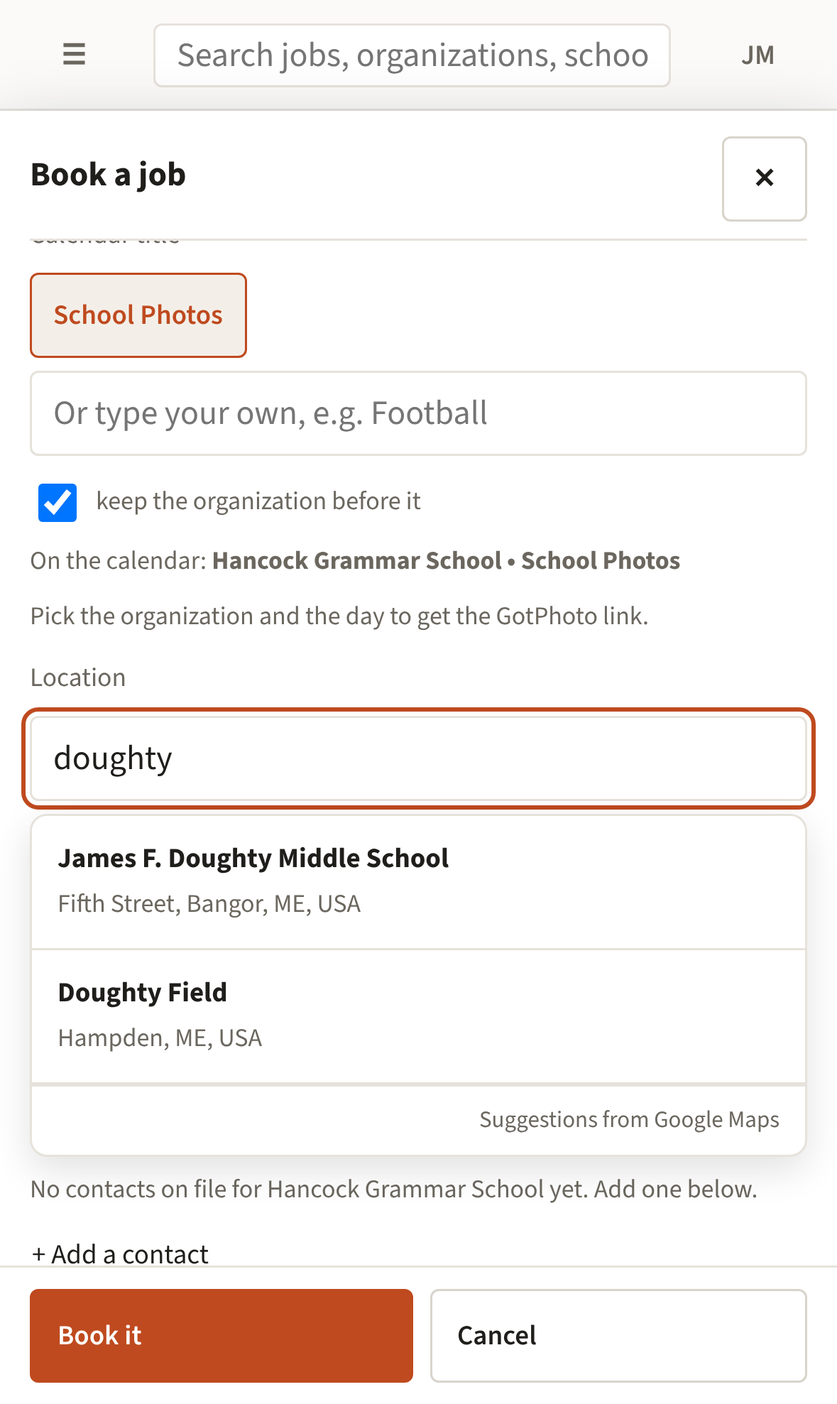
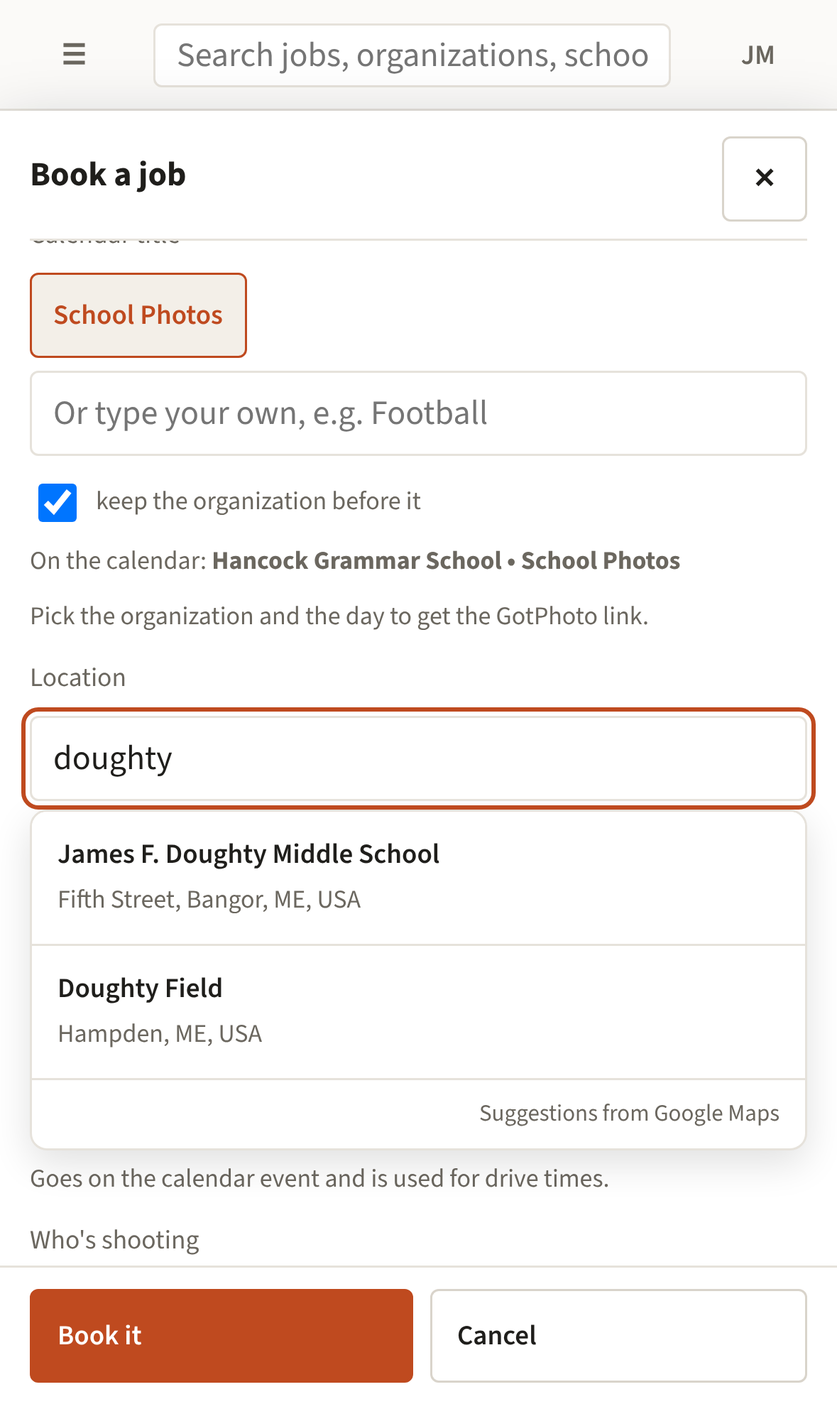
Google Maps search on every address box
The place search from the booking form is now a shared helper (app/src/places.js) and is also on
the studio address (Schedule) and the organization Town (add and edit, towns only). place-search
accepts anyone who can edit bookings, scheduling or organizations, and kind "town" limits
suggestions to cities and towns.

Claude-Session: https://claude.ai/code/session_016DqQ9PoSFNtnBFsZMLAPME

Changed region(s): [[0.0611, 0.5862, 0.5496, 0.7714], [0.0305, 0.7714, 0.9466, 0.8948]]

diff --git a/app/src/bookings.js b/app/src/bookings.js
@@ -40,12 +40,6 @@
   .aca .bk-orgs { border: 1px solid var(--border); border-radius: 8px; max-height: 200px; overflow: auto; margin-top: 6px; }
   .aca .bk-orgs button { display: block; width: 100%; text-align: left; border: none; border-bottom: 1px solid var(--border); border-radius: 0; background: var(--surface); padding: 8px 10px; white-space: normal; }
   .aca .bk-orgs button:last-child { border-bottom: none; }
-  .aca .bk-loc { position: relative; min-width: 0; }
-  .aca .bk-places { position: absolute; z-index: 6; left: 0; right: 0; max-height: 300px; box-shadow: 0 6px 18px rgba(0,0,0,.12); background: var(--surface); }
-  .aca .bk-places button { display: flex; flex-direction: column; align-items: flex-start; justify-content: center; text-align: left; gap: 2px; height: auto; padding: 10px 12px; min-height: 48px; font-weight: 400; white-space: normal; }
-  .aca .bk-places button.on, .aca .bk-places button:hover { background: var(--surface-2); }
-  .aca .bk-places .empty { padding: 10px 12px; font-size: 13px; color: var(--muted); }
-  .aca .bk-places-by { padding: 6px 12px; font-size: 11px; color: var(--muted); text-align: right; border-top: 1px solid var(--border); }
   .aca .bk-orgpick { display: flex; align-items: center; gap: 8px; flex-wrap: wrap; }
   .aca .bk-contacts label { display: flex; gap: 8px; align-items: flex-start; padding: 5px 0; font-size: 13px; }
   .aca .bk-contacts label.off { color: var(--muted); }
@@ -409,75 +403,6 @@
     return box;
   }
 
-  // ---- Location: Google Maps suggestions (edge fn place-search, key stays server-side). The pick is saved as
-  // "Name, full address" in bookings.location, which the calendar event and drive-time both use. Typing by hand
-  // still works; if Google is unreachable or refuses, the box quietly becomes a plain text box again.
-  const PLACES_FN_URL = SUPABASE_URL + "/functions/v1/place-search";
-  const mapLink = (loc) => '<a href="https://www.google.com/maps/search/?api=1&query=' + encodeURIComponent(loc) + '" target="_blank" rel="noopener">Open in Google Maps</a>';
-  async function placesCall(body) {
-    const { data: { session } } = await sb.auth.getSession();
-    if (!session) throw new Error("Signed out.");
-    const r = await fetch(PLACES_FN_URL, { method: "POST", headers: { Authorization: "Bearer " + session.access_token, "Content-Type": "application/json" }, body: JSON.stringify(body) });
-    const j = await r.json().catch(() => ({}));
-    if (!j.ok) throw new Error(j.error || "HTTP " + r.status);
-    return j;
-  }
-  const newSession = () => (window.crypto && crypto.randomUUID ? crypto.randomUUID() : "");
-  function wirePlaces(input, list, note) {
-    let timer = null, seq = 0, places = [], active = -1, off = false, session = newSession();
-    const hint = "Goes on the calendar event and is used for drive times.";
-    const close = () => { list.classList.add("hidden"); input.setAttribute("aria-expanded", "false"); active = -1; };
-    const paint = () => list.querySelectorAll("button").forEach((b, i) => b.classList.toggle("on", i === active));
-    function show(q) {
-      list.innerHTML = places.map((p, i) => '<button type="button" role="option" data-i="' + i + '"><strong>' + esc(p.name) + "</strong>" + (p.detail ? '<span class="bk-sub">' + esc(p.detail) + "</span>" : "") + "</button>").join("") +
-        (places.length ? "" : '<div class="empty">No Google Maps match for \u201c' + esc(q) + '\u201d. Keep typing, or leave it as typed.</div>') +
-        '<div class="bk-places-by">Suggestions from Google Maps</div>';
-      list.classList.remove("hidden"); input.setAttribute("aria-expanded", "true"); active = -1;
-    }
-    async function pick(i) {
-      const p = places[i]; if (!p) return;
-      close(); input.value = p.name + (p.detail ? ", " + p.detail : ""); input.blur();
-      note.textContent = "Getting the address\u2026";
-      try {
-        const g = await placesCall({ place_id: p.id, session });
-        const addr = (g.address || "").replace(/, USA$/, "");
-        const name = g.name || p.name;
-        input.value = addr ? (addr.toLowerCase().startsWith(name.toLowerCase()) ? addr : name + ", " + addr) : input.value;
-      } catch (e) { /* keep the suggestion text; it is still a good address */ }
-      session = newSession();
-      note.innerHTML = mapLink(input.value);
-    }
-    // The town filled in from the organization is a placeholder: the first tap selects it so typing replaces it.
-    input.addEventListener("focus", () => { if (input.dataset.auto) { delete input.dataset.auto; const v = input.value; input.select(); setTimeout(() => { if (input.value === v) input.select(); }, 0); } });
-    input.addEventListener("input", () => {
-      clearTimeout(timer); delete input.dataset.auto;
-      const q = input.value.trim();
-      note.textContent = hint;
-      if (off || q.length < 3) { close(); return; }
-      timer = setTimeout(async () => {
-        const mine = ++seq;
-        try {
-          const j = await placesCall({ q, session });
-          if (mine !== seq || input.value.trim() !== q) return;
-          places = j.places || []; show(q);
-        } catch (e) {
-          if (mine !== seq) return;
-          off = true; close(); note.textContent = cleanErr(e);
-        }
-      }, 250);
-    });
-    input.addEventListener("keydown", (e) => {
-      if (list.classList.contains("hidden") || !places.length) return;
-      if (e.key === "ArrowDown" || e.key === "ArrowUp") { e.preventDefault(); active = (active + (e.key === "ArrowDown" ? 1 : places.length - 1)) % places.length; paint(); }
-      else if (e.key === "Enter" && active >= 0) { e.preventDefault(); pick(active); }
-      else if (e.key === "Escape") { e.stopPropagation(); close(); }
-    });
-    // Keep the input focused while a suggestion is tapped (iPhone fires blur before click), then close on blur.
-    list.addEventListener("mousedown", (e) => e.preventDefault());
-    list.addEventListener("click", (e) => { const b = e.target.closest("button[data-i]"); if (b) pick(Number(b.dataset.i)); });
-    input.addEventListener("blur", () => setTimeout(close, 150));
-  }
-
   // ---- Book a job / Edit booking
   async function openForm(existing) {
     try { await ensureMeta(); } catch (e) { toast(cleanErr(e), true); return; }
@@ -508,9 +433,8 @@
           <div class="bk-sub" id="aca-bkTitlePrev" style="margin-top:6px"></div>
           <div id="aca-bkGp"></div></div>
         <label for="aca-bkLoc">Location</label>
-        <div class="bk-loc"><input type="text" id="aca-bkLoc" value="${esc(d.location || "")}" placeholder="Search Google Maps or type where we set up" autocomplete="off" autocapitalize="words" spellcheck="false" enterkeyhint="search" role="combobox" aria-autocomplete="list" aria-expanded="false" aria-controls="aca-bkLocList" style="width:100%" />
-          <div class="bk-orgs bk-places hidden" id="aca-bkLocList" role="listbox"></div>
-          <div class="bk-sub" id="aca-bkLocNote" style="margin-top:4px">${d.location ? mapLink(d.location) : "Goes on the calendar event and is used for drive times."}</div></div>
+        <div class="bk-loc"><input type="text" id="aca-bkLoc" value="${esc(d.location || "")}" placeholder="Search Google Maps or type where we set up" style="width:100%" />
+          <div class="bk-sub" id="aca-bkLocNote" style="margin-top:4px"></div></div>
         ${isNew && canEdit("scheduling") ? `<label>Who's shooting</label>
         <div><details class="bk-crew-dd" id="aca-bkCrewDd"><summary id="aca-bkCrewSum">Nobody yet</summary><div class="bk-contacts" id="aca-bkCrew"><span class="bk-sub">Loading the team&#8230;</span></div></details>
           <div class="bk-sub">Optional. They go on the Schedule for each day with a time (with drive time when it can be looked up).</div></div>` : ""}
@@ -642,7 +566,7 @@
       if (!chosen.size) contacts.filter((c) => c.emailable).forEach((c) => chosen.add(c.id));
       renderContacts(); renderPreview();
     }
-    wirePlaces(el("bkLoc"), el("bkLocList"), el("bkLocNote"));
+    Places.attach(el("bkLoc"), { note: el("bkLocNote"), hint: "Goes on the calendar event and is used for drive times." });
     let searchTimer = null;
     box.addEventListener("input", (e) => {
       if (e.target.id === "aca-bkOrgQ") {

diff --git a/app/src/places.js b/app/src/places.js
@@ -1,0 +1,110 @@
+
+  // ---- Google Maps place search (2026-10-22)
+  // Places.attach(input, opts) turns a text box into a Google Maps search: typing 3+ letters shows suggestions
+  // under it, and a pick fills the box. The edge function place-search holds the key. Typing by hand still works;
+  // if Google is unreachable or refuses, the box says so once (in opts.note) and stays a plain text box.
+  //   opts.kind  "address" (default): fills "Name, full street address" (Place Details).
+  //              "town": cities and towns only; fills just the town name.
+  //   opts.note  optional element under the box: shows opts.hint, an "Open in Google Maps" link after a pick,
+  //              and Google's refusal if there is one.
+  // A pick fires "change" on the input (on the blur, and again once the full address arrives), so code that
+  // saves on change keeps working.
+  const Places = (() => {
+    const css = `
+  .aca .pl-wrap { position: relative; display: block; min-width: 0; }
+  .aca .pl-list { position: absolute; z-index: 60; left: 0; right: 0; top: 100%; margin-top: 4px; max-height: 300px; overflow: auto; border: 1px solid var(--border); border-radius: 8px; background: var(--surface); box-shadow: 0 6px 18px rgba(0,0,0,.12); }
+  .aca .pl-list button { display: flex; flex-direction: column; align-items: flex-start; justify-content: center; text-align: left; gap: 2px; width: 100%; height: auto; min-height: 48px; padding: 10px 12px; border: none; border-bottom: 1px solid var(--border); border-radius: 0; background: var(--surface); font-weight: 400; white-space: normal; }
+  .aca .pl-list button strong { font-weight: 600; }
+  .aca .pl-list button span { font-size: 12px; color: var(--muted); }
+  .aca .pl-list button.on, .aca .pl-list button:hover { background: var(--surface-2); }
+  .aca .pl-list .empty { padding: 10px 12px; font-size: 13px; color: var(--muted); }
+  .aca .og-modal .pl-list { position: static; }   /* that dialog scrolls and would clip a floating list */
+  .aca .pl-by { padding: 6px 12px; font-size: 11px; color: var(--muted); text-align: right; }
+  `;
+    const styleTag = document.createElement("style"); styleTag.textContent = css; document.head.appendChild(styleTag);
+    const FN_URL = SUPABASE_URL + "/functions/v1/place-search";
+    let refused = "";   // Google said no (e.g. the API is off): stop asking for the rest of the visit
+    const mapLink = (loc) => '<a href="https://www.google.com/maps/search/?api=1&query=' + encodeURIComponent(loc) + '" target="_blank" rel="noopener">Open in Google Maps</a>';
+    const newSession = () => (window.crypto && crypto.randomUUID ? crypto.randomUUID() : "");
+    async function call(body) {
+      const { data: { session } } = await supabase.auth.getSession();
+      if (!session) throw new Error("Signed out.");
+      const r = await fetch(FN_URL, { method: "POST", headers: { Authorization: "Bearer " + session.access_token, "Content-Type": "application/json" }, body: JSON.stringify(body) });
+      const j = await r.json().catch(() => ({}));
+      if (!j.ok) throw Object.assign(new Error(j.error || "HTTP " + r.status), { status: r.status });
+      return j;
+    }
+
+    function attach(input, opts) {
+      opts = opts || {};
+      const kind = opts.kind === "town" ? "town" : "address", note = opts.note || null, hint = opts.hint || "";
+      const wrap = document.createElement("span"); wrap.className = "pl-wrap";
+      input.parentNode.insertBefore(wrap, input); wrap.appendChild(input);
+      const list = document.createElement("div"); list.className = "pl-list hidden"; list.setAttribute("role", "listbox");
+      list.id = (input.id || "pl" + Math.random().toString(36).slice(2)) + "-places"; wrap.appendChild(list);
+      Object.entries({ autocomplete: "off", spellcheck: "false", autocapitalize: "words", enterkeyhint: "search", role: "combobox", "aria-autocomplete": "list", "aria-expanded": "false", "aria-controls": list.id })
+        .forEach(([k, v]) => input.setAttribute(k, v));
+      let timer = null, seq = 0, places = [], active = -1, session = newSession();
+      const say = (h) => { if (note) note.innerHTML = h; };
+      if (note && !note.innerHTML.trim()) say(kind === "address" && input.value.trim() ? mapLink(input.value.trim()) : esc(hint));
+      const close = () => { list.classList.add("hidden"); input.setAttribute("aria-expanded", "false"); active = -1; };
+      const paint = () => list.querySelectorAll("button").forEach((b, i) => b.classList.toggle("on", i === active));
+      function show(q) {
+        list.innerHTML = places.map((p, i) => '<button type="button" role="option" data-i="' + i + '"><strong>' + esc(p.name) + "</strong>" + (p.detail ? "<span>" + esc(p.detail) + "</span>" : "") + "</button>").join("") +
+          (places.length ? "" : '<div class="empty">No Google Maps match for “' + esc(q) + '”. Keep typing, or leave it as typed.</div>') +
+          '<div class="pl-by">Suggestions from Google Maps</div>';
+        list.classList.remove("hidden"); input.setAttribute("aria-expanded", "true"); active = -1;
+      }
+      async function pick(i) {
+        const p = places[i]; if (!p) return;
+        close();
+        // Set the value before leaving the box, so the browser's own "change" on blur carries the pick.
+        input.value = kind === "town" ? p.name : p.name + (p.detail ? ", " + p.detail.replace(/, USA$/, "") : "");
+        const first = input.value;
+        input.blur();
+        if (kind === "address") {
+          say("Getting the address…");
+          try {
+            const g = await call({ place_id: p.id, session });
+            const addr = (g.address || "").replace(/, USA$/, ""), name = g.name || p.name;
+            if (addr) input.value = addr.toLowerCase().startsWith(name.toLowerCase()) ? addr : name + ", " + addr;
+          } catch (e) { /* keep the suggestion text; it is still a good address */ }
+          if (input.value !== first) input.dispatchEvent(new Event("change", { bubbles: true }));
+        }
+        session = newSession();
+        say(kind === "address" ? mapLink(input.value) : esc(hint));
+      }
+      // The town filled in for you elsewhere (data-auto) is a placeholder: the first tap selects it so typing replaces it.
+      input.addEventListener("focus", () => { if (input.dataset.auto) { delete input.dataset.auto; const v = input.value; input.select(); setTimeout(() => { if (input.value === v) input.select(); }, 0); } });
+      input.addEventListener("input", () => {
+        clearTimeout(timer); delete input.dataset.auto;
+        const q = input.value.trim();
+        if (refused) { close(); return; }
+        say(esc(hint));
+        if (q.length < 3) { close(); return; }
+        timer = setTimeout(async () => {
+          const mine = ++seq;
+          try {
+            const j = await call({ q, session, kind });
+            if (mine !== seq || input.value.trim() !== q) return;
+            places = j.places || []; show(q);
+          } catch (e) {
+            if (mine !== seq) return;
+            close(); refused = e.message; say(esc(refused));
+          }
+        }, 250);
+      });
+      input.addEventListener("keydown", (e) => {
+        if (list.classList.contains("hidden") || !places.length) return;
+        if (e.key === "ArrowDown" || e.key === "ArrowUp") { e.preventDefault(); active = (active + (e.key === "ArrowDown" ? 1 : places.length - 1)) % places.length; paint(); }
+        else if (e.key === "Enter" && active >= 0) { e.preventDefault(); pick(active); }
+        else if (e.key === "Escape") { e.stopPropagation(); close(); }
+      });
+      // Keep the input focused while a suggestion is tapped (iPhone fires blur before click), then close on blur.
+      list.addEventListener("mousedown", (e) => e.preventDefault());
+      list.addEventListener("click", (e) => { const b = e.target.closest("button[data-i]"); if (b) pick(Number(b.dataset.i)); });
+      input.addEventListener("blur", () => setTimeout(close, 150));
+      return { close };
+    }
+    return { attach, mapLink };
+  })();

diff --git a/app/test/smoke.js b/app/test/smoke.js
@@ -193,13 +193,13 @@ const shown = (page, sel) => page.$eval(sel, (n) => !n.classList.contains("hidde
     await page.click("#aca-bkLoc");
     check(!(await page.$eval("#aca-bkCrewDd", (n) => n.open)), "the dropdown closes when you click elsewhere");
     await page.fill("#aca-bkLoc", "doughty");
-    await page.waitForSelector("#aca-bkLocList:not(.hidden) button[data-i]");
-    check((await page.$$("#aca-bkLocList button[data-i]")).length === 2, "typing a location shows Google Maps suggestions");
-    await page.click("#aca-bkLocList button[data-i] >> nth=0");
+    await page.waitForSelector("#aca-bkLoc-places:not(.hidden) button[data-i]");
+    check((await page.$$("#aca-bkLoc-places button[data-i]")).length === 2, "typing a location shows Google Maps suggestions");
+    await page.click("#aca-bkLoc-places button[data-i] >> nth=0");
     await page.waitForFunction(() => document.querySelector("#aca-bkLoc").value === "James F. Doughty Middle School, 143 Fifth St, Bangor, ME 04401");
     const calls = await page.evaluate(() => window.__placeCalls);
     check(calls.length === 2 && calls[0].session && calls[0].session === calls[1].session && calls[1].place_id === "ChIJdoughty0000001", "picking one fetches its address in the same session");
-    check(await page.$eval("#aca-bkLocList", (n) => n.classList.contains("hidden")) && /google\.com\/maps/.test(await page.$eval("#aca-bkLocNote a", (a) => a.href)), "the list closes and a map link shows");
+    check(await page.$eval("#aca-bkLoc-places", (n) => n.classList.contains("hidden")) && /google\.com\/maps/.test(await page.$eval("#aca-bkLocNote a", (a) => a.href)), "the list closes and a map link shows");
     await page.click('.bk-form button[data-v="save"]');
     await page.waitForFunction(() => window.__rpcCalls.some((c) => c[0] === "booking_create"));
     await page.waitForSelector("#aca-bkPanel .bk-stages");
@@ -378,6 +378,13 @@ const shown = (page, sel) => page.$eval(sel, (n) => !n.classList.contains("hidde
     const { page, errors } = await open(browser, port, "", "#staff/schedule");
     await page.waitForSelector("#aca-scGrid .sc-b");
     check(await page.$eval("#aca-panel-schedule", (n) => n.classList.contains("active")), "schedule opens from its link");
+    await page.click('[data-v="studio"]');
+    await page.fill("#aca-scAddr", "60 main");
+    await page.waitForSelector("#aca-scAddr-places:not(.hidden) button[data-i]");
+    await page.click("#aca-scAddr-places button[data-i]");
+    await page.waitForFunction(() => document.querySelector("#aca-scAddr").value === "60 Main Rd N, Hampden, ME 04444");
+    check(true, "the studio address searches Google Maps and fills the full address");
+    await page.click('.sc-modal [data-m="cancel"]');
     check((await page.$$("#aca-scGrid .sc-head")).length === 8, "week view: 7 days Sunday to Saturday");
     check((await page.textContent("#aca-scGrid .sc-head:nth-child(2)")).startsWith("Sun"), "the week starts on Sunday");
     check((await page.$$("#aca-scGrid .sc-b.sc-k-drive")).length === 4 && (await page.$$("#aca-scGrid .sc-b.sc-k-job")).length >= 2, "job bars with drive time on both sides");

diff --git a/supabase/functions/place-search/index.ts b/supabase/functions/place-search/index.ts
@@ -1,11 +1,13 @@
-// place-search: Google Maps place suggestions for the Location box on Book a job / Edit booking in 207 Admin.
+// place-search: Google Maps place suggestions for the address boxes in 207 Admin (app/src/places.js): the booking
+// Location, the studio address on Schedule, and the organization Town.
 //
 // Deployed with verify_jwt=false; this function does its own checks. POST with the caller's token:
-//   {q, session}         -> {ok, places: [{id, name, detail}]}   (Places API (New) Autocomplete, biased to Maine)
+//   {q, session, kind}   -> {ok, places: [{id, name, detail}]}   (Places API (New) Autocomplete, biased to Maine;
+//                                                                  kind "town" = cities and towns only)
 //   {place_id, session}  -> {ok, name, address, location}        (Place Details: name + formatted address)
 // `session` is a UUID the page makes per search so Google bills the typing and the pick as one session.
-// The caller must have can('bookings','edit'). The picked text goes in bookings.location, which drive-time
-// already sends to the Routes API, so drive times use the exact address.
+// The caller must be able to edit bookings, scheduling or organizations (can_any). A picked booking location goes
+// in bookings.location, which drive-time sends to the Routes API, so drive times use the exact address.
 //
 // Needs the secret GOOGLE_MAPS_API_KEY with "Places API (New)" enabled (as well as the Routes API). Without
 // it the page says so and the location is typed by hand like before.
@@ -31,10 +33,10 @@ const UUID = /^[0-9a-f]{8}-[0-9a-f]{4}-[0-9a-f]{4}-[0-9a-f]{4}-[0-9a-f]{12}$/i;
 const PLACE_ID = /^[A-Za-z0-9_-]{10,300}$/;
 
 async function allowed(jwt: string): Promise<boolean> {
-  const r = await fetch(`${SUPABASE_URL}/rest/v1/rpc/can`, {
+  const r = await fetch(`${SUPABASE_URL}/rest/v1/rpc/can_any`, {
     method: "POST",
     headers: { apikey: ANON_KEY, Authorization: `Bearer ${jwt}`, "Content-Type": "application/json" },
-    body: JSON.stringify({ p_module: "bookings", p_level: "edit" }),
+    body: JSON.stringify({ p_modules: ["bookings", "scheduling", "partners"], p_level: "edit" }),
   });
   return r.ok && (await r.json().catch(() => false)) === true;
 }
@@ -78,7 +80,7 @@ Deno.serve(async (req) => {
     const r = await fetch("https://places.googleapis.com/v1/places:autocomplete", {
       method: "POST",
       headers: { "Content-Type": "application/json", "X-Goog-Api-Key": MAPS_KEY },
-      body: JSON.stringify({ input: q, includedRegionCodes: ["us"], locationBias: MAINE, ...(session ? { sessionToken: session } : {}) }),
+      body: JSON.stringify({ input: q, includedRegionCodes: ["us"], locationBias: MAINE, ...(body.kind === "town" ? { includedPrimaryTypes: ["(cities)"] } : {}), ...(session ? { sessionToken: session } : {}) }),
     });
     const g = await r.json().catch(() => ({}));
     if (!r.ok) { console.error("place-search autocomplete:", r.status, JSON.stringify(g).slice(0, 500)); return json({ ok: false, error: googleError(r.status, g) }); }

diff --git a/app/src/scheduling.js b/app/src/scheduling.js
@@ -608,8 +608,9 @@
 
     function openStudio() {
       const m = openModal('<div class="sc-modal"><h2>Studio address</h2><p>Drive times are measured from here to each job&#39;s location (or the organization and town when a booking has no location), using Google Maps.</p>' +
-        '<div class="field"><label for="aca-scAddr">Address</label><input type="text" id="aca-scAddr" maxlength="300" value="' + esc(data.studio_address || "") + '" placeholder="Street, town, state" /></div>' +
+        '<div class="field"><label for="aca-scAddr">Address</label><input type="text" id="aca-scAddr" maxlength="300" value="' + esc(data.studio_address || "") + '" placeholder="Search Google Maps or type street, town, state" /><div id="aca-scAddrNote" style="margin-top:4px;font-size:12px;color:var(--muted)"></div></div>' +
         '<div class="inline-error hidden" id="aca-scMErr"></div><div class="modal-actions"><span class="grow"></span><button type="button" class="small" data-m="cancel">Cancel</button><button type="button" class="primary" data-m="save">Save</button></div></div>');
+      Places.attach(el("scAddr"), { note: el("scAddrNote"), hint: "Pick the studio from the list so drive times start from the exact spot." });
       m.addEventListener("click", async (ev) => {
         const t = ev.target.closest("[data-m]"); if (!t) return;
         if (t.dataset.m === "cancel") m.close();

diff --git a/app/test/mock-supabase.js b/app/test/mock-supabase.js
@@ -262,7 +262,10 @@
     if (String(url).includes("/functions/v1/place-search")) {
       const b = JSON.parse(opts.body);
       window.__placeCalls = (window.__placeCalls || []).concat([b]);
+      if (b.place_id === "ChIJstudio00000001") return new Response(JSON.stringify({ ok: true, name: "60 Main Rd N", address: "60 Main Rd N, Hampden, ME 04444, USA" }), { status: 200 });
       if (b.place_id) return new Response(JSON.stringify({ ok: true, name: "James F. Doughty Middle School", address: "143 Fifth St, Bangor, ME 04401, USA" }), { status: 200 });
+      if (b.kind === "town") return new Response(JSON.stringify({ ok: true, places: [{ id: "ChIJbangor00000001", name: "Bangor", detail: "ME, USA" }, { id: "ChIJbangor00000002", name: "Bangor", detail: "PA, USA" }] }), { status: 200 });
+      if (/main/i.test(b.q)) return new Response(JSON.stringify({ ok: true, places: [{ id: "ChIJstudio00000001", name: "60 Main Road North", detail: "Hampden, ME, USA" }] }), { status: 200 });
       return new Response(JSON.stringify({ ok: true, places: [
         { id: "ChIJdoughty0000001", name: "James F. Doughty Middle School", detail: "Fifth Street, Bangor, ME, USA" },
         { id: "ChIJdoughty0000002", name: "Doughty Field", detail: "Hampden, ME, USA" }] }), { status: 200 });

diff --git a/app/src/partners-orgs.js b/app/src/partners-orgs.js
@@ -981,6 +981,7 @@
     });
     document.addEventListener("keydown", onKey);
     document.querySelector(".aca").appendChild(wrap);
+    Places.attach(el("ogNewTown"), { kind: "town" });
     el("ogNewName").focus();
   });
 
@@ -1138,6 +1139,7 @@
           ${timelineHtml(d, cById)}
         </div>
       </div>`;
+    const town = panel.querySelector('input[data-f="town"]'); if (town) Places.attach(town, { kind: "town" });
   }
   function contactsHtml(d) {
     const rows = d.contacts.map((c) => {

diff --git a/app/build.py b/app/build.py
@@ -9,7 +9,7 @@ Sources: src/shell.html (styles + frame + nav + Today), section partials src/*.h
 import json, os, re, subprocess, sys
 os.chdir(os.path.dirname(os.path.abspath(__file__)))
 
-JS_PARTS = ["src/shell-top.js", "src/pickers.js", "src/access.js", "src/jobs.js", "src/jobs-calculator.js", "src/parents.js", "src/partners-prospect-tools.js",
+JS_PARTS = ["src/shell-top.js", "src/pickers.js", "src/places.js", "src/access.js", "src/jobs.js", "src/jobs-calculator.js", "src/parents.js", "src/partners-prospect-tools.js",
             "src/partners-orgs.js", "src/partners-library.js", "src/bookings.js", "src/bookings-library.js", "src/partners-hub.js", "src/system.js", "src/outbox.js", "src/settings-sending.js", "src/team.js", "src/push.js", "src/scheduling.js", "src/assignments.js", "src/inventory.js", "src/shell-end.js"]
 HTML_PARTS = ["src/jobs.html", "src/parents.html", "src/partners.html", "src/system.html", "src/team.html", "src/staff.html", "src/inventory.html"]
 APP_URL = "https://socluffmclkdljtmiexw.supabase.co/storage/v1/object/public/admin-app/207-admin.js"

diff --git a/supabase/functions/README.md b/supabase/functions/README.md
@@ -7,7 +7,7 @@ Project `socluffmclkdljtmiexw`. Only the functions changed in this repo are kept
 | `admin` | `POST /sync`: "Sync now" in 207 Admin. Checks the caller with `can('galleries','edit')`, then triggers `gotphoto-sync` with the server-held sync secret. | caller's JWT |
 | `push-sender` | Sends queued push notifications (`push_outbox`): VAPID + aes128gcm with WebCrypto, no dependencies (`webpush.ts`, cross-checked in `webpush.test.mjs`). Woken by the database (pg_net) and a 5-minute retry cron. | `x-push-secret` (Vault) |
 | `drive-time` | Schedule page: drive minutes from the studio address to a booking (Google Maps Routes API), cached in `drive_time_cache`. Needs the secret `GOOGLE_MAPS_API_KEY`. | caller's JWT + `can('scheduling','edit')` |
-| `place-search` | Book a job / Edit booking: Google Maps suggestions for the Location box (Places API (New) Autocomplete + Place Details, biased to Maine). The pick is saved as "Name, address" in `bookings.location`, which `drive-time` uses. Same `GOOGLE_MAPS_API_KEY`, which needs **Places API (New)** enabled too. | caller's JWT + `can('bookings','edit')` |
+| `place-search` | Google Maps suggestions for address boxes (`app/src/places.js`): booking Location, studio address, organization Town (Places API (New) Autocomplete + Place Details, biased to Maine). The pick is saved as "Name, address" in `bookings.location`, which `drive-time` uses. Same `GOOGLE_MAPS_API_KEY`, which needs **Places API (New)** enabled too. | caller's JWT + `can_any(bookings, scheduling, partners; edit)` |
 | `calendar-write` | Keeps the "207Photo - Scheduling" Google Calendar in step with bookings (one event per booking day). Woken by booking RPCs and a retry cron. Needs the secret `GOOGLE_CALENDAR_SA_JSON`. Event body is built in `event.ts`. | `x-booking-secret` (Vault) |
 | `team` | Team page account actions: create a login with a temporary password, reset a password, deactivate or reactivate (ban or unban), remove a deactivated person (deletes the login). Access rules stay in SQL (`team_save` / `team_set_active` / `team_remove` / `team_flag_password`, run with the caller's JWT). | caller's JWT + `is_admin()` |
 
